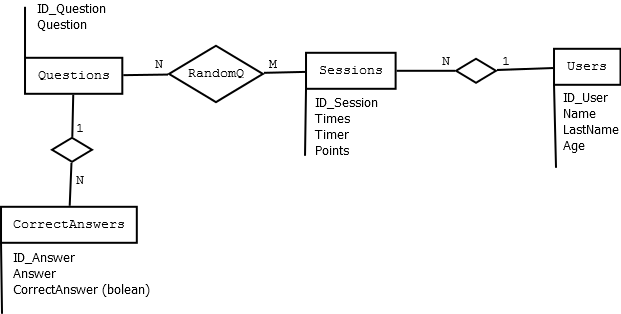
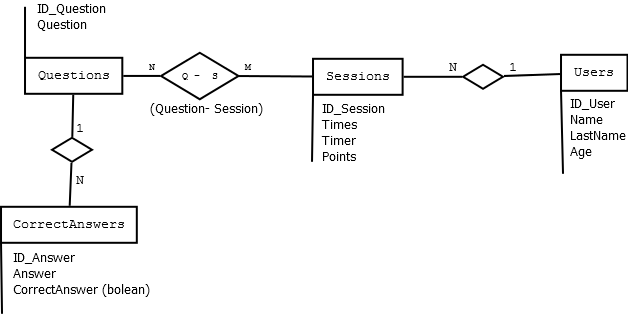
Update
-add favicon for site;
-fix relational scheme data base
-fix navigation bar in any page

diff --git a/about.html b/about.html
@@ -30,9 +30,10 @@
             <nav>
               <ul class="sf-menu">
                <li><a href="index.html">Home</a></li>
-               <li class="current"><a href="about.html">About</a></li>
+			   <li><a href="learn.html">Teoria</a></li>
 			   <li><a href="test.html">Test</a></li>
-			   <li><a href="#">work in progress</a></li>
+			   <li><a href="points.html">Punteggi</a></li>
+			   <li class="current"><a href="about.html">About</a></li>
              </ul>
             </nav>
             <div class="clear"></div>
@@ -60,8 +61,7 @@
 		  <div class="sep-1 offset__1"></div>
 		  <img src="images/page2_img2.png" alt="" class="img_inner img_fright">
 		  <h2>Cosa sono le VPN?</h2>
-          <p>Una VPN (Virtual Private Network) è una rete privata che sfrutta le potenzialità di una rete pubblica, come Internet. In altre parole, essa permette a computer e ad altri dispositivi di veicolare dati all’interno della rete pubblica Internet, la quale viene sfruttata come se fosse una rete privata, poiché solo le persone autorizzate possono accedervi. In questo modo, una LAN(Local Area Network) diventa una WAN(Wide Area Network).L’uso più comune delle Reti Virtuali Private è nelle grandi aziende che abbiano filiali estese su un ampio territorio. 
-</p>
+          <p>Una VPN (Virtual Private Network) è una rete privata che sfrutta le potenzialità di una rete pubblica, come Internet. In altre parole, essa permette a computer e ad altri dispositivi di veicolare dati all’interno della rete pubblica Internet, la quale viene sfruttata come se fosse una rete privata, poiché solo le persone autorizzate possono accedervi. In questo modo, una LAN(Local Area Network) diventa una WAN(Wide Area Network).L’uso più comune delle Reti Virtuali Private è nelle grandi aziende che abbiano filiali estese su un ampio territorio.</p>
       </div>
     </div>
   </div>

diff --git a/test.html b/test.html
@@ -7,7 +7,6 @@
 <link rel="icon" href="images/favicon.ico">
 <link rel="shortcut icon" href="images/favicon.ico" />
 <link rel="stylesheet" href="css/style.css">
-
 <script>
 function control() {
 	var age = document.form1.age.value;
@@ -54,9 +53,10 @@ function control() {
             <nav>
               <ul class="sf-menu">
                <li><a href="index.html">Home</a></li>
-               <li><a href="about.html">About</a></li>
+			   <li><a href="learn.html">Teoria</a></li>
 			   <li class="current"><a href="test.html">Test</a></li>
-			   <li><a href="#">work in progress</a></li>
+			   <li><a href="points.html">Punteggi</a></li>
+               <li><a href="about.html">About</a></li>
              </ul>
             </nav>
             <div class="clear"></div>
@@ -74,7 +74,7 @@ function control() {
   <div class="container">
     <div class="row">
       <div class="grid_12">
-        <h2 class="ta__center">Registrazione del Test</h2>
+        <h2 class="ta__center">Registrazione prima del Test</h2>
         <div class="shuffle-group">
           <div class="row">
               <form name="form1" onsubmit=" return control();" action="php/registration.php"  method="POST">

diff --git a/index.html b/index.html
@@ -30,9 +30,10 @@
             <nav>
               <ul class="sf-menu">
                <li class="current"><a href="index.html">Home</a></li>
-               <li><a href="about.html">About</a></li>
+			   <li><a href="learn.html">Teoria</a></li>
 			   <li><a href="test.html">Test</a></li>
-			   <li><a href="#">work in progress</a></li>
+			   <li><a href="points.html">Punteggi</a></li>
+               <li><a href="about.html">About</a></li>
              </ul>
             </nav>
             <div class="clear"></div>
